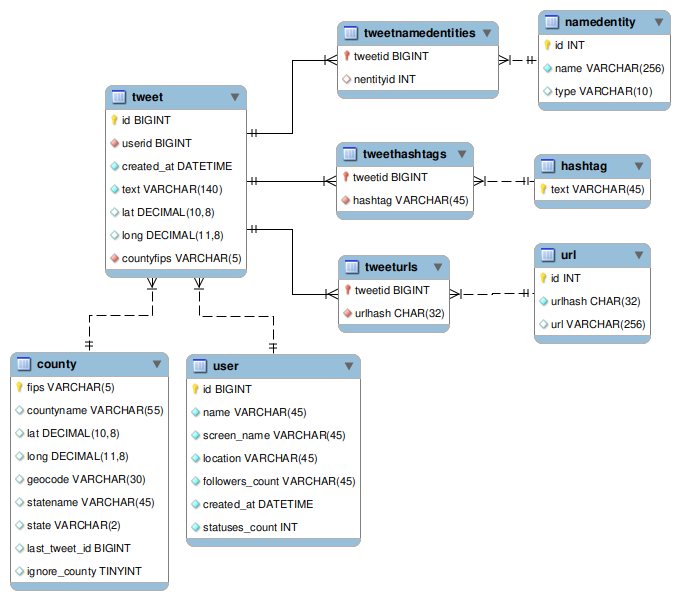
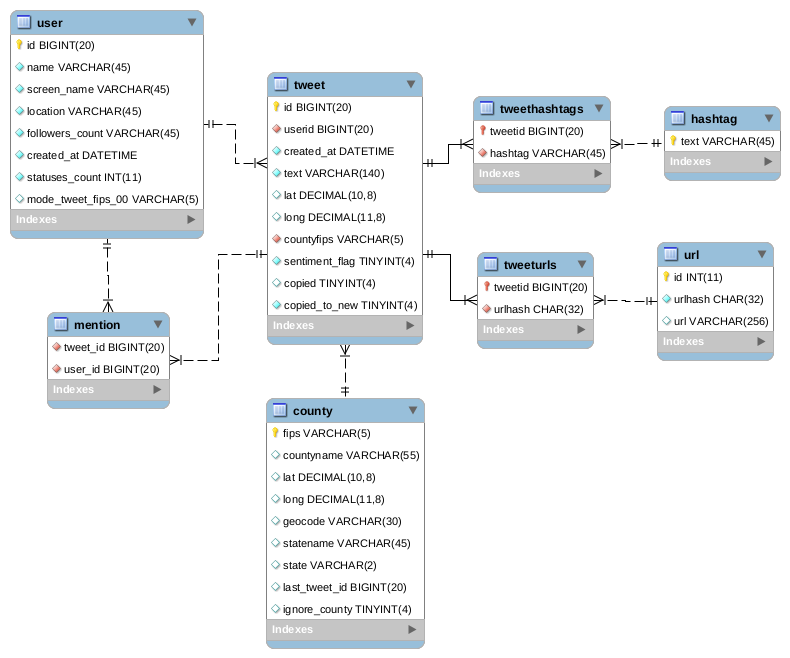
updating documentation.

Changed region(s): [[0.0, 0.0, 0.9882, 0.99]]

diff --git a/README.md b/README.md
@@ -1,6 +1,8 @@
 # localtwitter
 Set of scripts to help gather twitter data from users who are able to be located by the geocode search parameter provided by the twitter API.
 
+
+## Requirements
 To make any of this work, you'll need to create a `.env` file in the root project directory that contains the following fields:
 ```
 T_CONSUME_KEY="<YOUR-TWITTER-CONSUME-KEY>"
@@ -13,16 +15,22 @@ DB_HOST="<YOUR-DB-HOST>"
 DB_DATABASE="<YOUR-DB-DATABASE-NAME>"
 ```
 
+The numbered scripts are a roughly time-ordered list of experiments/examples of how how to start up a full time gather, and a draft of how you'd extract named entities from the existing tweets. They also show how some of the analysis is done, and outputs are generated. 
 
-The numbered scripts are a roughly time-ordered list of experiments/examples of how how to start up a full time gather, and a draft of how you'd extract named entities from the existing tweets. 
+The full gather script is in the 10th example script, [here](10_long_running_gather.py).
 
+## Database Setup
 The db methods will help create the following mysql schema:
 
 ![db schema](doc/db_schema.png)
 
+## Analysis Examples
 
-## TODO
+### Hashtag Wordclouds
+Outputs from the 14th script; [14_test_vis_wordclouds](14_test_vis_wordclouds.py)
+![word cloud examples](doc/ht_wordcloud_test.png)
 
-* Wrap this in a CLI app
-	- Manage creating a new database, starting searches
-* Update Readme.
+### Choropleths
+Output from the 16th script; (16_test_choropleth)(16_test_choropleth.py)
+![choropleth example - log tweet count](doc/choropleth_logtweets.png)
+![choropleth example - log unq ht count](doc/choropleth_log_unqht_count_.png)
